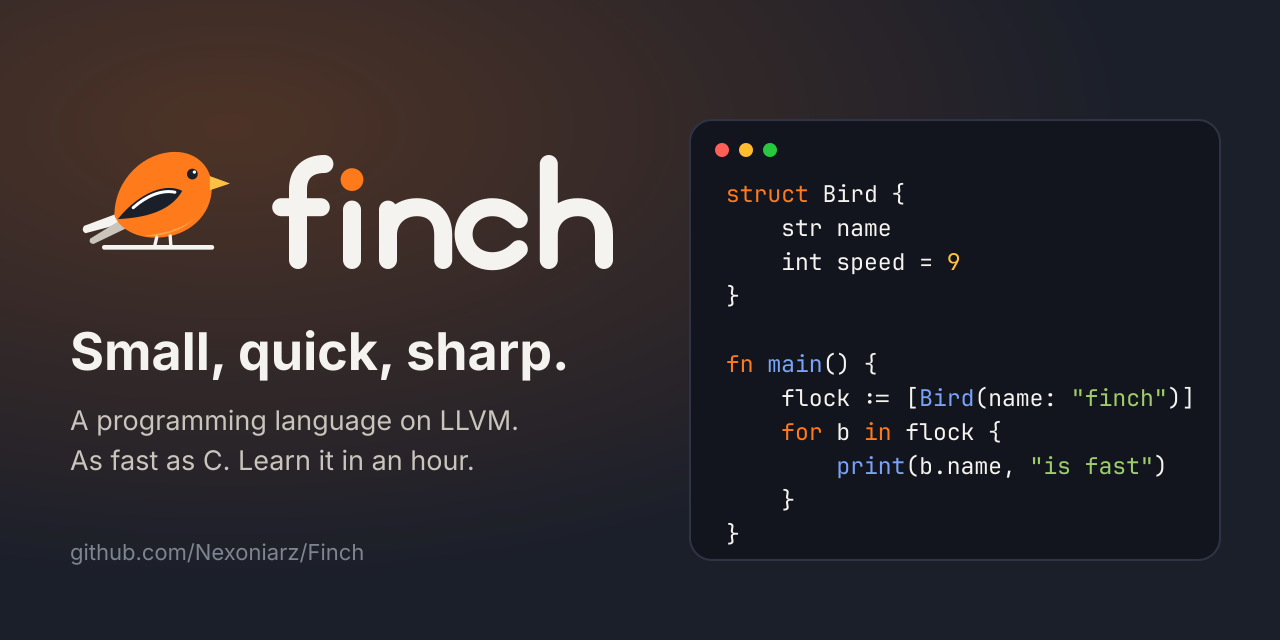
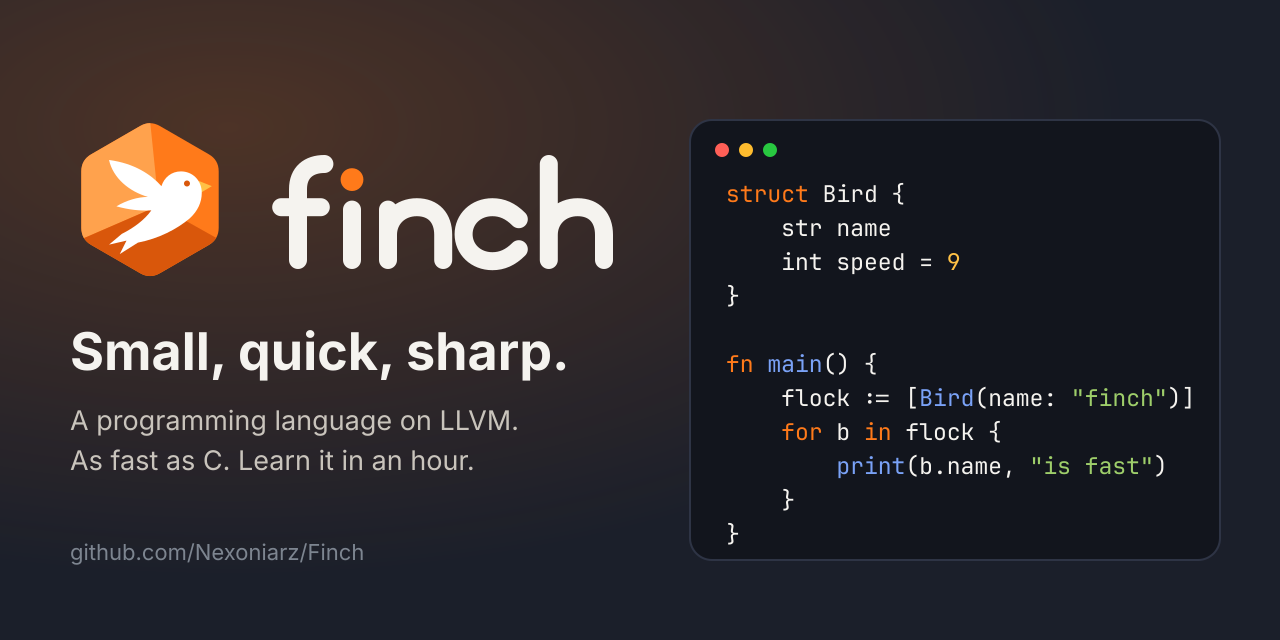
New mark: a faceted hexagon with a finch in flight
- The mark is a hexagon in three shades of orange, lit from the upper left, with a
  white finch flying through it: wings swept back, a seed-cracker beak, a forked tail.
- logo / logo-dark (with the stroked wordmark), logo-mark, icon (512, 256, favicon 64),
  the GitHub social preview, and the VS Code icon and .fch file icons.
- assets/make_logo.py draws it and puts it into the logos; BRAND.md describes the mark
  and its third orange (Ember #D9570B), in English and Polish.

Changed region(s): [[0.0625, 0.1875, 0.1875, 0.4375]]

diff --git a/assets/make_logo.py b/assets/make_logo.py
@@ -1,0 +1,106 @@
+# Draws the Finch mark (a faceted hexagon with a finch in flight) and puts it into the logos:
+#   python3 assets/make_logo.py assets/icon.svg      the mark alone; see the bottom of this file for the rest
+# Then render the PNGs, e.g. with rsvg-convert (BRAND.md has the list).
+import math, sys
+
+C = 256.0          # centre
+R = 236.0          # hexagon radius (to the corners)
+ROUND = 34.0       # corner rounding
+
+
+def hex_points(r=R):
+    # pointy top, clockwise from the top
+    return [(C + r * math.sin(math.radians(a)), C - r * math.cos(math.radians(a))) for a in range(0, 360, 60)]
+
+
+def rounded(points, rad):
+    n = len(points)
+    d = []
+    for i in range(n):
+        p0, p1, p2 = points[i - 1], points[i], points[(i + 1) % n]
+        v1 = (p0[0] - p1[0], p0[1] - p1[1])
+        v2 = (p2[0] - p1[0], p2[1] - p1[1])
+        l1, l2 = math.hypot(*v1), math.hypot(*v2)
+        a = (p1[0] + v1[0] / l1 * rad, p1[1] + v1[1] / l1 * rad)
+        b = (p1[0] + v2[0] / l2 * rad, p1[1] + v2[1] / l2 * rad)
+        d.append(("M" if i == 0 else "L") + f"{a[0]:.1f} {a[1]:.1f} Q{p1[0]:.1f} {p1[1]:.1f} {b[0]:.1f} {b[1]:.1f}")
+    return " ".join(d) + " Z"
+
+
+def poly(points):
+    return "M" + " L".join(f"{x:.1f} {y:.1f}" for x, y in points) + " Z"
+
+
+P = hex_points()
+top, ur, lr, bot, ll, ul = P
+centre = (C, C)
+# three facets meeting a little right of the centre, like light from the upper left
+k = (C + 26, C + 18)
+LIGHT = poly([top, k, ll, ul])                 # the upper-left half
+MID = poly([top, ur, lr, k])                    # the right
+DARK = poly([ll, k, lr, bot])                   # the bottom
+
+# the finch: in flight towards the upper right, wings swept back, a short seed-cracker beak, a forked tail
+BIRD = """
+M 396 214
+C 396 176 368 150 334 150
+C 306 150 284 168 276 194
+C 246 160 196 126 120 116
+C 132 170 180 210 236 226
+C 206 226 172 236 142 254
+C 178 264 212 268 246 266
+C 226 294 194 318 158 336
+L 120 368
+L 172 356
+L 152 396
+L 206 362
+C 268 350 322 322 360 290
+C 384 268 396 242 396 214
+Z
+"""
+BEAK = "M 386 178 L 426 194 L 392 214 Z"
+EYE = (352, 186, 9)
+
+
+def svg(size=512, bg=None, colors=("#FFA24D", "#FF7A1A", "#D9570B"), bird="#FFFFFF", beak="#FFC145", title="Finch"):
+    light, mid, dark = colors
+    hexpath = rounded(P, ROUND)
+    out = [f'<svg xmlns="http://www.w3.org/2000/svg" viewBox="0 0 512 512" width="{size}" height="{size}">',
+           f'  <title>{title}</title>',
+           '  <defs>',
+           f'    <clipPath id="hex"><path d="{hexpath}"/></clipPath>',
+           '  </defs>']
+    if bg:
+        out.append(f'  <rect width="512" height="512" fill="{bg}"/>')
+    out += ['  <g clip-path="url(#hex)">',
+            f'    <rect width="512" height="512" fill="{mid}"/>',
+            f'    <path d="{LIGHT}" fill="{light}"/>',
+            f'    <path d="{DARK}" fill="{dark}"/>',
+            '  </g>',
+            '  <!-- the finch, in flight -->',
+            '  <g transform="translate(14 22)">',
+            f'  <path d="{BEAK}" fill="{beak}"/>',
+            f'  <path d="{" ".join(BIRD.split())}" fill="{bird}"/>',
+            f'  <circle cx="{EYE[0]}" cy="{EYE[1]}" r="{EYE[2]}" fill="{dark}"/>',
+            '  </g>',
+            '</svg>']
+    return "\n".join(out) + "\n"
+
+
+if __name__ == "__main__":
+    open(sys.argv[1], "w").write(svg())
+
+
+def mark(clip_id):
+    """the hexagon and the bird, as SVG elements for any document (the clip path gets its own id)"""
+    s = svg()
+    body = s.split('\n', 2)[2].rsplit('</svg>', 1)[0]     # without <svg ...> and <title>
+    return body.replace('id="hex"', f'id="{clip_id}"').replace('url(#hex)', f'url(#{clip_id})')
+
+
+def swap_bird(path, clip_id):
+    text = open(path).read()
+    start = text.index('<g transform="translate(0 6) scale(0.56)">')
+    end = text.index('<g transform="translate(330 20)">')
+    new = '<g transform="translate(0 6) scale(0.56)">\n' + mark(clip_id) + '  </g>\n  '
+    open(path, 'w').write(text[:start] + new + text[end:])

diff --git a/assets/BRAND.md b/assets/BRAND.md
@@ -6,22 +6,29 @@
 
 | File | Use |
 |---|---|
-| `logo.svg` / `logo.png` | the bird + wordmark, for light backgrounds |
+| `logo.svg` / `logo.png` | the mark + wordmark, for light backgrounds |
 | `logo-dark.svg` / `logo-dark.png` | the same for dark backgrounds |
-| `logo-mark.svg`, `logo-mark-dark.svg` | the bird alone |
+| `logo-mark.svg`, `logo-mark-dark.svg` | the mark alone (it works on light and dark) |
 | `icon.svg`, `icon.png`, `icon-256.png`, `favicon-64.png` | app icon / avatar / favicon |
 | `social-preview.svg` / `social-preview.png` | GitHub social preview (1280×640) |
 
+**The mark** is a hexagon in three shades of orange, lit from the upper left, with a white finch flying through it
+towards the upper right: wings swept back, a short seed-cracker beak, a forked tail. Small, quick, sharp. It is made by
+`make_logo.py`, which also puts it into the logos and the social preview; the PNGs are rendered from the SVGs
+(`rsvg-convert -w 512 -h 512 icon.svg -o icon.png`, and 256, 64, the logos at 1000×300, the preview at 1280×640, the
+VS Code icon at 128).
+
 The wordmark is drawn with strokes (no font needed), lowercase, with an orange dot over the **i**.
-Keep clear space around the logo of at least the height of the letter **n**. Don't recolor the bird,
-stretch it, or put it on busy backgrounds.
+Keep clear space around the logo of at least the height of the letter **n**. Don't recolor the mark, rotate it,
+stretch it, or put it on busy backgrounds; the bird stays white.
 
 ## Colors
 
 | Name | Hex | Use |
 |---|---|---|
-| Finch Orange | `#FF7A1A` | the bird, accents, the dot over the i |
-| Glow | `#FFA24D` | light orange highlights |
+| Finch Orange | `#FF7A1A` | the mark's right face, accents, the dot over the i |
+| Glow | `#FFA24D` | the mark's lit face, light orange highlights |
+| Ember | `#D9570B` | the mark's lower face, the bird's eye |
 | Seed | `#FFC145` | the beak, numbers in code |
 | Ink | `#1B1F2A` | text, the wing, dark backgrounds |
 | Slate | `#2E3445` | secondary dark |
@@ -41,13 +48,15 @@ Tagline: **Small, quick, sharp.**
 
 ## Marka Finch (po polsku)
 
-**Logo:** pliki jak w tabeli wyżej. `logo.svg` jest na jasne tło, `logo-dark.svg` na ciemne,
-`logo-mark*.svg` to sam ptak, `icon*` to ikona i awatar, a `social-preview.png` to podgląd linku na GitHubie.
+**Logo:** pliki jak w tabeli wyżej. Znak to sześciokąt w trzech odcieniach pomarańczu, oświetlony z lewej góry,
+z białym gilem (finch) lecącym przez niego w prawo w górę: skrzydła odgięte do tyłu, krótki dziób do łuskania ziaren,
+rozwidlony ogon. Rysuje go `make_logo.py`. `logo.svg` jest na jasne tło, `logo-dark.svg` na ciemne,
+`logo-mark*.svg` to sam znak, `icon*` to ikona i awatar, a `social-preview.png` to podgląd linku na GitHubie.
 Napis jest rysowany liniami (nie potrzebuje czcionki), małymi literami, z pomarańczową kropką nad **i**.
-Zostaw wokół logo wolne miejsce co najmniej wysokości litery **n**. Nie zmieniaj kolorów ptaka, nie
-rozciągaj go i nie kładź na pstrokatym tle.
+Zostaw wokół logo wolne miejsce co najmniej wysokości litery **n**. Nie zmieniaj kolorów znaku, nie obracaj
+go, nie rozciągaj i nie kładź na pstrokatym tle; ptak zostaje biały.
 
-**Kolory:** Finch Orange `#FF7A1A` (ptak, akcenty), Glow `#FFA24D`, Seed `#FFC145` (dziób),
+**Kolory:** Finch Orange `#FF7A1A` (prawa ściana znaku, akcenty), Glow `#FFA24D` (oświetlona ściana), Ember `#D9570B` (dolna ściana, oko ptaka), Seed `#FFC145` (dziób),
 Ink `#1B1F2A` (tekst, skrzydło, ciemne tło), Slate `#2E3445`, Cloud `#F5F3EF` (tekst na ciemnym), Shell `#FFF3E6` (tło ikony).
 
 **Czcionki:** Inter do tekstu, JetBrains Mono do kodu.
